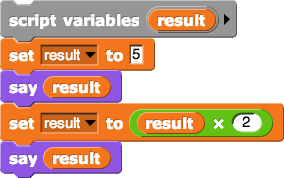
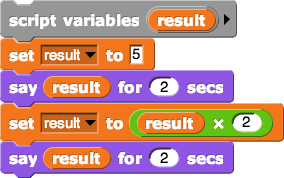
U2L2 many fixes

Changed region(s): [[0.3944, 0.7865, 0.8451, 0.9831], [0.3944, 0.3933, 0.8451, 0.5899]]

diff --git a/cur/programming/2-conditionals-abstraction-testing/2-script-variables/1-script-variables.html b/cur/programming/2-conditionals-abstraction-testing/2-script-variables/1-script-variables.html
@@ -51,42 +51,97 @@
                 	<strong>Analyzing and debugging:</strong> Instead of setting a script variable, this script just uses the <code>pick random</code> block in the two places that need the random number. Before you build and run this script, try to figure out what is likely to go wrong.
                     <p><img src="/bjc-r/img/prog/bad-random-poly.png" alt="buggy random polygon" /></p>
             	</li>
-                <li>This script shows a very useful thing that you can do with variables.
+      </ol>
+    </div>
+<h3>Important new idea:</h3> 
+<p> You will often find it useful to perform some operation on the <em>current</em> value of a variable and then set the variable's value to the result of that operation.  Here is one way that might look in <span class="snap">snap</span>. </p>
+<p> <img class="indent" src="/bjc-r/img/2-conditionals-abstraction-testing/set-result-to-(operation-on-result).png" alt="set-result-to-(operation-on-result)"> </p>
+<p>The operation might be <code></code> or <img src="/bjc-r/img/blocks/join()().png" alt="join"> or  <img src="/bjc-r/img/blocks/times.png"  alt="times"> or many others.</p>
+        <div class="forYouToDo">
+	        <ol start="5">
+        
+                <li>Here is one example.
                   <p><img class="indent" src="/bjc-r/img/2-conditionals-abstraction-testing/example-set-result-to-5-say-result-set-result-to-result-x-2-say-result.png" alt="example-set-result-to-5-say-result-set-result-to-result-x-2-say-result"></p>
                     <ol> 
-                        <li> Build it, try it, and figure out <em>why</em> it does what it does. </li>
-                        <li>Change the 5 to a 7 and <em>predict</em> what it will do.</li>
+                        <li> Build it, try it, and figure out why <img src="/bjc-r/img/2-conditionals-abstraction-testing/say-(result)-for-2-secs.png"  alt="say-(result)-for-2-secs"> says one thing in step 3 and a different thing in step 5.</li>
+                        <li>Change the 5 to a 7 and <em>predict</em> what this script will do.</li>
                     </ol>
-                    <div class="takeNote">
-   					This step <img src="/bjc-r/img/2-conditionals-abstraction-testing/set-result-to-(operation-on-result).png" alt="set-result-to-(operation-on-result)"> performs some operation on the value that <code>result</code> already has and then sets <code>result</code> to the new value. You will probably use this idea very often in your programming.</div>
-         <li>Now create the much more useful script 
+                   
+         <li>This script does a  much more useful thing. 
                             <p><img src="/bjc-r/img/2-conditionals-abstraction-testing/power--set-result-to-1-repeat-2-(set-result-to-result-times-5)-say-result.png" alt="power--set-result-to-1-repeat-2-(set-result-to-result-times-5)-say-result"> </p> 
                     <ol> 
                         <li> Build it, try it, and figure out how it does what it does. </li>
                         <li> Change the <code> times 5</code> to <code> times 3</code> and <em>predict</em> what it will do.</li>
                         <li> Then change the <code> repeat 2</code> to <code> repeat 3</code>. 
-                        <li> Build a <strong>reporter</strong> block named <code> raise (base) to the power of (exponenent)</code>.
-                             <p>Use the script inside, and put the variables <code>(base)</code> and <code>(exponent)</code> in the right places.</p>
-                             <p>Check (as always!) to make sure it does what you expect.</p></li> 
+                        <li> Build a <strong>reporter</strong> block named <img src="/bjc-r/img/2-conditionals-abstraction-testing/raise-base-to-the-power-of-exponent.png" alt="raise-base-to-the-power-of-exponent">.
+                          <p>The script you created should help. Put the variables <code>(base)</code> and <code>(exponent)</code> in the right places inside that script.</p>
+                          <p>Your block should work like this:</p>
+                    <p><img src="/bjc-r/img/2-conditionals-abstraction-testing/raise(2)-to-the-power(3)(with-result).png" alt="raise 2 to the power 3 (result = 8)"><img src="/bjc-r/img/2-conditionals-abstraction-testing/raise(2)-to-the-power(5)(with-result).png" alt="raise 2 to the power 5 (result = 32)"><img src="/bjc-r/img/2-conditionals-abstraction-testing/raise(3)-to-the-power(4)(with-result).png" alt="raise 3 to the power 4 (result = 81)"><img src="/bjc-r/img/2-conditionals-abstraction-testing/raise(2)-to-the-power(1)(with-result).png" alt="raise 2 to the power 1 (result = 2)"></p>
+                    <p>Make sure it also works for this case: <img src="/bjc-r/img/2-conditionals-abstraction-testing/raise(5)-to-the-power(0)(with-result).png" alt="raise 5 to the power 0 (result = 1)"></p>
+                             <p>Check (as always!) to make sure it works as you expect.</p></li> 
                     </ol>
-                 </li>
+              </li>
+              <li>Here is another example.
+                  <p><img src="/bjc-r/img/2-conditionals-abstraction-testing/vowel-remover-script.png" alt="vowel-remover-script, first line: script variables (result)(somewords); second line: set result to (empty slot); third line: set somewords to (any sentence you like); fourth line: for i = 1 to length of (somewords) {if not vowel? letter i of somewords, set result to (join result letter i of somewords)}; fifth line: say result"></p>
+                  <ol> 
+                            <li> Build it, try it, and figure out <em>how</em> it does what it does. </li>
+                            <li> Change the code so that it puts in hyphens (-) where the vowels used to be.</li>
+                            <li> Change the code so that it <em>counts</em> the vowels, <em>counts</em> all the letters (not including spaces), and ends with 
+<p><img src="/bjc-r/img/2-conditionals-abstraction-testing/say-(vowels)-for-2-secs-say(total-letters)-for-2-secs-say((join-words-(this-passage-is)(vowels-divided-by-total-letters)-percent-vowels.png" alt="say-(vowels)-for-2-secs-say(total-letters)-for-2-secs-say((join-words-(this-passage-is)(vowels-divided-by-total-letters)-percent-vowels"></p>
+                            If you like, compare the results you get from similar length sentences in two different languages. You may get very interesting results.</li>
+                   </ol> 
+              </li>
                         
-        	</ol>
+       	  </ol>
 </div>
 		
         <div class="todo">You could replace the below with one of these: <div class="newProject"><span class="text">"U2L2-MathTools"</span><img src="/bjc-r/img/icons/new-project-called.png" alt="Start a New Project called U2L2-MathTools" title="Start a New Project called U2L2-MathTools" /> (sizing if only off because it's in a reviewer comment)</div> and use a <img src="/bjc-r/img/icons/save-mini.png" alt="Save your work" title="Save your work" /> at the end. (Or just use <img src="/bjc-r/img/icons/new-project-mini.png" alt="Create a new project" title="Create a new project" /> before "Open a new file.") --MF</div>
-        <p>Now you have a choice. Some of the problems below are about words,  some are about numbers, and some are about art. Choose any four  that interest you and do them. You don't have to do more than four.</p>
+        <p>Now you have a choice. Some of the problems below are about language or linguistics,  some are about mathematics, and some are about art. Choose any two  that interest you and do them. </p>
         
         <div class="forYouToDo">
             <ol start="8">
-                <div class="comment">Feedback from Dan during August PD: These problems (7-14) are too math-focused. --MF<br />from GH: based on today's conversation in NYC should #7-14 be (1) in a sub-page, (2) offered as a 'choose 3' of the following. /shawn</div>
-                <li>
-                    Here is one way to create a <code>factorial</code> block that takes a positive integer <em>n</em> and reports the value 1 &times; 2 &times; 3 &times; ... &times; (<em>n</em> - 1) &times; <em>n</em>. 
-                    <p><a name="factorial" class="anchor"></a><img src="/bjc-r/img/2-conditionals-abstraction-testing/factorial-block.png" alt="factorial block"></p>
+            
+                <li><strong>Mondrian—an art project:</strong> The artist Mondrian is possibly best known for his artwork using brightly colored rectangles
+                  <p><img src="/bjc-r/img/2-conditionals-abstraction-testing/Tableau-I-by-Piet-Mondriaan.png" width="300" alt="Tableau_I,_by_Piet_Mondriaan, from Wikimedia Commons"></p>
+                  <p>Mondrian wasn't at all random in his choice of colors and locations, but you can be. A <span class="snap">snap</span> script can produce some very interesting Mondrian-like effects. </p>
+                <p><img src="/bjc-r/img/2-conditionals-abstraction-testing/Snap-Piet-Mondrian.png" width="300"  alt="Mondrian-like art drawn with Snap"> <img src="/bjc-r/img/2-conditionals-abstraction-testing/Snap-Piet-Mondrian2.png" width="300"  alt="another Mondrian-like design drawn with Snap"></p>
+                The following algorithm will produce designs like these.
+<pre class="indent" style="width:450px;">Draw outer frame (400 x 300)
+Fill with color
+Repeat many times
+    Pick random location
+    Pick random height and width for a rectangle that, 
+        at that location, 
+        will not extend beyond frame
+    Fill rectangle with random color
+    Draw bold boundary in black</pre>
+    <p><span class="snap">snap</span> has no <code>fill with color</code> block.  One way to make such a block is 
+<pre class="indent" style="width:450px;">Repeat until height or width is less than 2
+	Draw rectangle of specified height and width
+	Set height slightly smaller
+	Set width slightly smaller</pre>
+    </p>
+    <p>
+    
+    To get bright colors, use <code>set pen shade to 100</code>, and you get a good collection of colors with 
+                <img src="/bjc-r/img/2-conditionals-abstraction-testing/set-pen-color-to(2-times-pick-random-0-to-50).png"  alt="set-pen-color-to(2-times-pick-random-0-to-50)">  </p></li>
+                <li> The code <code>set pen size 50, move 100 steps</code> does not do quite what you might expect, because the "ends of the lines" are rounded. The code <code>clear set pen size 50, move 0.5 steps</code> does  something that can be useful. Experiment with the possibilities. 
+                  <p> <img src="/bjc-r/img/2-conditionals-abstraction-testing/colored-circles.png" width="300" alt="colored circles randomly placed">  <img src="/bjc-r/img/2-conditionals-abstraction-testing/Colored-ovals.png" width="300" alt="colored ovals"></p> 
+                <div class="endnote">Another way to fill a rectangle is to draw a "very thick line" that has &quot;flat&quot; ends instead of round ends. The settings menu allows you to choose "flat line ends." 
+                  <p><img class="indent" src="/bjc-r/img/2-conditionals-abstraction-testing/Flat Line Ends.png"  alt="settings menu, flat line ends"></p>
+                </div>  
+                </li>
+                <li><strong>Writing secret code:</strong> Create a block that takes a word as input, changes each letter into the <em>next</em> letter in the alphabet—for example, A becomes B, Y becomes Z...—and reports the result, like this: <img src="/bjc-r/img/2-conditionals-abstraction-testing/encode-decode(HANDY)-with-result(IBOEZ).png" alt="encode-decode(HANDY)-with-result(IBOEZ)">.
+                <p>In order to do this, you will need to be able to change a letter into a number, add 1 to that number, and then change the new number back to a letter. The blocks <img src="/bjc-r/img/2-conditionals-abstraction-testing/unicode-of(Y).png" alt="unicode-of(Y)">                and <img src="/bjc-r/img/2-conditionals-abstraction-testing/unicode(89)as-letter.png"  alt="unicode(89)as-letter"> will help you do that. Experiment with them to see how they work.</p>
+                <ol><li>This block encodes by adding 1 to the unicode for each letter. You could, instead, always add 2 or 5 or whatever. Give your block a second variable that allows you to specify what to add to the unicode.</li>
+                <li>When you give your <code>encode</code> block the input <code>z</code>, what does it report? If that's not what you would <em>like</em> it to report, change it. </li>
+                <li>Make a <code>decode</code> block.</li></ol>
+                </li>
+                <li><strong>Linguistic research:</strong> Build a block that can take a piece of text as input and which letter,  <strong>t</strong> or <strong>s</strong>, is used more often in that bit of text. Later, you will be able to generalize this and take a large block of text and figure out the frequency of each letter. <em>Letter frequency differs from language to language. That information has been used as one clue in decoding encrypted messages.</em></li>
+    
+                <li><strong>A mathematical function: </strong>Create <a name="factorial" class="anchor"></a> a <code>factorial</code> block <img src="/bjc-r/img/2-conditionals-abstraction-testing/n-factorial.png" alt="n factorial"> (or <img src="/bjc-r/img/2-conditionals-abstraction-testing/n-factorial-symbol.png"  alt="n!">) that takes a positive integer <em>n</em> and reports the product of all whole numbers from 1 through <em>n</em>, in other words 1 &times; 2 &times; 3 &times; ... &times; (<em>n</em> - 1) &times; <em>n</em>. When the  input is 4, the output should be 24 (because 1 × 2 × 3 × 4 = 24). 
                     <ol>
-                        <li>Build this block and test it out. When the block's input is 4, its output should be 24 (because 1 &times; 2 &times; 3 &times; 4 = 24). And when the input is 5, you should see. <img src="/bjc-r/img/2-conditionals-abstraction-testing/5-factorial-with-result(120).png"  alt="five factorial with result (120)"></li>
-                        <li>Dividing 5! by 4!, the result should be 5 <img src="/bjc-r/img/2-conditionals-abstraction-testing/5-factorial-divided-by-4-factorial-with-result(5).png" alt="5-factorial-divided-by-4-factorial-with-result(5)"> because 4! is  1 &times; 2 &times; 3 &times; 4, and 5! is  1 &times; 2 &times; 3 &times; 4 &times;5. Using your block, check each of these computations&mdash;<img src="/bjc-r/img/2-conditionals-abstraction-testing/4-factorial-divided-by-3-factorial.png"  alt="4-factorial-divided-by-3-factorial">, <img src="/bjc-r/img/2-conditionals-abstraction-testing/3-factorial-divided-by-2-factorial.png"  alt="3-factorial-divided-by-2-factorial">, <img src="/bjc-r/img/2-conditionals-abstraction-testing/2-factorial-divided-by-1-factorial.png"  alt="2-factorial-divided-by-1-factorial"> and <img src="/bjc-r/img/2-conditionals-abstraction-testing/1-factorial-divided-by-0-factorial.png"  alt="1-factorial-divided-by-0-factorial">&mdash;to see what it reports. </li>
-                        <li>For mathematics to be consistent, we'd like all of these to follow the same pattern, but one of them does not. To fix the problem, we need to <em>define</em> 0! = 1. Edit your <code>n!</code> block to  report 1 if <em>n</em> = 0. Then fully test <code>n!</code> again to make sure it works as it should. </li>
+                        <li>Dividing 5! by 4!, the result should be 5 <img src="/bjc-r/img/2-conditionals-abstraction-testing/5-factorial-divided-by-4-factorial-with-result(5).png" alt="5-factorial-divided-by-4-factorial-with-result(5)"> because 5 factorial is really just 5 times 4 factorial. Using your block, check each of these computations&mdash;<img src="/bjc-r/img/2-conditionals-abstraction-testing/4-factorial-divided-by-3-factorial.png"  alt="4-factorial-divided-by-3-factorial">, <img src="/bjc-r/img/2-conditionals-abstraction-testing/3-factorial-divided-by-2-factorial.png"  alt="3-factorial-divided-by-2-factorial">, <img src="/bjc-r/img/2-conditionals-abstraction-testing/2-factorial-divided-by-1-factorial.png"  alt="2-factorial-divided-by-1-factorial"> and <img src="/bjc-r/img/2-conditionals-abstraction-testing/1-factorial-divided-by-0-factorial.png"  alt="1-factorial-divided-by-0-factorial">&mdash;to see what it reports. One of these is inconsistent with the others. To fix the problem, we need to <em>define</em> 0! = 1. Edit your <code>n!</code> block to  report 1 if <em>n</em> = 0. Then fully test <code>n!</code> again to make sure it works as it should. </li>
                         <li><strong>Debugging: </strong>Obviously <img src="/bjc-r/img/2-conditionals-abstraction-testing/cookie-factorial-bug.png" alt="cookie-factorial-bug"> should not work! Check to see what does happen.  Then edit your block and find a way to use <img src="/bjc-r/img/2-conditionals-abstraction-testing/is-n-a-number.png" alt="is n a number"> to check that the input is a number and report some sensible result or message.</li>
                         <li> 
                             <strong>Analyzing code: </strong>In mathematics, factorial is defined only for positive integers and zero, so 3.7! would make no mathematical sense.  But <img src="/bjc-r/img/2-conditionals-abstraction-testing/three-point-seven-factorial.png" alt="three-point-seven-factorial"> reports a result!
@@ -94,31 +149,30 @@
                         </li>
                     </ol>
                 </li>
-                <li>Create a block <code>triangular number n</code> that takes <em>n</em> as input and reports 1 + 2 + 3 + ... + (<em>n</em> - 1) + <em>n</em>. <code> triangular number 4</code> should report 10.  Define your block so that <code> triangular number 0</code> reports 0. </li>
-                <li>
-                    Create a <code>raise (n) to the power (b)</code> block that works like this:
-                    <p><img src="/bjc-r/img/2-conditionals-abstraction-testing/raise(2)-to-the-power(3)(with-result).png" alt="raise 2 to the power 3 (result = 8)"><img src="/bjc-r/img/2-conditionals-abstraction-testing/raise(2)-to-the-power(5)(with-result).png" alt="raise 2 to the power 5 (result = 32)"><img src="/bjc-r/img/2-conditionals-abstraction-testing/raise(3)-to-the-power(4)(with-result).png" alt="raise 3 to the power 4 (result = 81)"><img src="/bjc-r/img/2-conditionals-abstraction-testing/raise(2)-to-the-power(1)(with-result).png" alt="raise 2 to the power 1 (result = 2)"></p>
-                    <p>Make sure it also works for this case: <img src="/bjc-r/img/2-conditionals-abstraction-testing/raise(5)-to-the-power(0)(with-result).png" alt="raise 5 to the power 0 (result = 1)"></p>
-                </li> 
-                <li>Create <img src="/bjc-r/img/2-conditionals-abstraction-testing/sum from a to b 170 × 27 pixels.png" alt="sum from a to b"> so that <img src="/bjc-r/img/2-conditionals-abstraction-testing/sum from 3 to 7 170 × 27 pixels.png" alt="sum from 3 to 7"> reports the sum 3 + 4 + 5 + 6 + 7, and <img src="/bjc-r/img/2-conditionals-abstraction-testing/sum from -3 to 3.png" alt="sum from -3 to 3"> reports the sum of -3 + -2 + -1 + 0 + 1 + 2 + 3.</li>
-                <li> <div class="sidenote">Recall that <code>n mod i</code> will tell you if <em>i</em> is a divisor of <em>n</em>.</div> Create a block that takes a whole number as input and checks  numbers from 1 through that input and counts the ones that evenly divide the input. So, for example, <img src="/bjc-r/img/2-conditionals-abstraction-testing/number-of-divisors-of-8-with-result(4).png" alt="number of divisors of 8, with result = 4"> because, from 1 through 8, only the numbers 1, 2, 4, and 8 evenly divide 8.  <code>number-of-divisors 10</code> should also report 4 because, of the numbers from 1 through 10, only 1, 2, 5, and 10 are divisors of 10.</li>
-                <li>Create a tool <code>digital sum</code> that adds up the digits in a number.  So, for example <code>digital sum 7</code> should report 7, and <code>digital sum 12</code> should report 3, and <code>digital sum 126</code> should report 9 (the sum of 1, 2 and 6).  You may find these blocks useful. <img src="/bjc-r/img/2-conditionals-abstraction-testing/letter-i-of-number.png" alt="fletter-i-of-number"> <img src="/bjc-r/img/2-conditionals-abstraction-testing/for-i=1-to-length-of-number.png" alt="for-i=1-to-length-of-number"> </li>
+                <li><strong>Another mathematical function:</strong> Create a block <code>triangular number n</code> that <em>adds</em> all of the whole numbers from 1 through <em>n</em>. 1 + 2 + 3 + ... + (<em>n</em> - 1) + <em>n</em>. When its input is 4, your block should report 10 (that is, 1 + 2 + 3 + 4).  Define your block so that <code> triangular number 0</code> reports 0. </li>
+                <ol> 
+                <li>Create <img src="/bjc-r/img/2-conditionals-abstraction-testing/sum from a to b 170 × 27 pixels.png" alt="sum from a to b"> so that <img src="/bjc-r/img/2-conditionals-abstraction-testing/sum from 3 to 7 170 × 27 pixels.png" alt="sum from 3 to 7"> reports the sum 3 + 4 + 5 + 6 + 7, and <img src="/bjc-r/img/2-conditionals-abstraction-testing/sum from -3 to 3.png" alt="sum from -3 to 3"> reports the sum of -3 + -2 + -1 + 0 + 1 + 2 + 3.</li></ol>
+                <li> <div class="sidenote">Recall that <code>n mod i</code> will tell you if <em>i</em> is a divisor of <em>n</em>.</div>
+                  <strong>Counting divisors: </strong>Create a block that takes a whole number as input and checks  numbers from 1 through that input and counts the ones that evenly divide the input. So, for example, <img src="/bjc-r/img/2-conditionals-abstraction-testing/number-of-divisors-of-8-with-result(4).png" alt="number of divisors of 8, with result = 4"> because, from 1 through 8, only the numbers 1, 2, 4, and 8 evenly divide 8.  <code>number-of-divisors 10</code> should also report 4 because, of the numbers from 1 through 10, only 1, 2, 5, and 10 are divisors of 10. <strong>Experiment</strong> to find several numbers that have an odd number of divisors.</li>
+                
                 
 			</ol>
-		</div>
+</div>
 
         <div class="commentBig">Hi Paul, I was in here working on the TIF Assignments for the TG, and I changed this lab title to make it fit. If it really has to be "Mathematical" on the end, change it and let me know; I'll widen the box. --MF</div>
         <div class="takeItFurther"><a name="further" class="anchor">&nbsp;</a>
             <ol type="A">
                 <li>Edit your <code>raise (n) to the power (b)</code> block to make it work for negative integer exponents. </li> 
-                <li>
+                <li><strong>Old-fashioned divisibility test—divisibility by 3 or 9: </strong>Create a tool <code>digital sum</code> that adds up the digits in a number.  So, for example <code>digital sum 7</code> should report 7, and <code>digital sum 12</code> should report 3, and <code>digital sum 126</code> should report 9 (the sum of 1, 2 and 6).  You may find these blocks useful. <img src="/bjc-r/img/2-conditionals-abstraction-testing/letter-i-of-number.png" alt="fletter-i-of-number"> <img src="/bjc-r/img/2-conditionals-abstraction-testing/for-i=1-to-length-of-number.png" alt="for-i=1-to-length-of-number"> </li>
+            
+                <li><strong>Old-fashioned divisibility test—divisibility by 7: </strong>
                     Create a <code>multiples of 7 algorithm</code> block that takes any whole number as input and then puts it through this process:
-                    <div class="sidenote">For this project,  <img src="/bjc-r/img/blocks/all-but-last-letter-of.png" alt="all but last letter of"> and <img src="/bjc-r/img/blocks/last-letter-of.png" alt="last letter of"> are useful. They are in <a class="run" href="http://snap.berkeley.edu/snapsource/snap.html#open:http://snap.berkeley.edu/snapsource/libraries/word-sentence.xml">  the <strong>Words, sentences</strong> library</a>.</div>
+                    <div class="endnote">For this project,  <img src="/bjc-r/img/blocks/all-but-last-letter-of.png" alt="all but last letter of"> and <img src="/bjc-r/img/blocks/last-letter-of.png" alt="last letter of"> are useful. They are in <a class="run" href="http://snap.berkeley.edu/snapsource/snap.html#open:http://snap.berkeley.edu/snapsource/libraries/word-sentence.xml">  the <strong>Words, sentences</strong> library</a>.</div>
                     <p><img src="/bjc-r/img/2-conditionals-abstraction-testing/divisibility-by-7-algorithm.png" alt="multiples of 7 algorithm"> </p>
-                    <div class="sidenote">In <span class="snap">snap</span>, as in most programming languages, you can test for divisibility just by using <code>mod</code>, but before computers were widespread, algorithms like these greatly simplified some computations.</div>
+                    
                     <p>Test it first on several multiples of 7 (small and large) and make sure that, for multiples of 7, it reports only the results 14, 7, 0, -7, and -14. Also test it on several numbers that are <em>not</em> multiples of 7; for those numbers, it should never report 14, 7, 0, -7, or -14. <img src="/bjc-r/img/2-conditionals-abstraction-testing/multiples-of-7-algorithm-block-with-501298-as-input(and-result-neg14).png" alt="multiples-of-7-algorithm-block-with-501298-as-input(and-result-neg14)"></p>
                 </li>  
-				<li>Look up a test for divisibility by 11 or 13 and see if you can build a block that performs that algorithm.</li>
+				<li>Look up a test for divisibility by 11 or 13 and see if you can build a block that performs that algorithm.</li><div class="endnote">In <span class="snap">snap</span>, as in most programming languages, you can test for divisibility just by using <code>mod</code>, but before computers were widespread, algorithms like these greatly simplified some computations.</div>
                 <div class="saveAs"><span class="text">"U2L2-MathTools"</span><img src="/bjc-r/img/icons/save-this-as.png" alt="save your work as U2L2-MathTools" title="save your work as U2L2-MathTools" /></div>
             </ol>
         </div>

diff --git a/cur/programming/2-conditionals-abstraction-testing/2-script-variables/2-predicates.html b/cur/programming/2-conditionals-abstraction-testing/2-script-variables/2-predicates.html
@@ -18,16 +18,18 @@
         </div>
         <h2>Building a useful collection of predicates</h2>
         <p>Some tests—for example, a test to see if a number is even or if a letter is a vowel—are needed so often that you won't want to re-create them each time you need them. In this activity, you will create a set of tools that you may use often, especially for complicated programming tasks.  </p>
-		<p>
-            You've already built a predicate <code>vowel?</code> to test for vowels. In the same lesson, you built a block that <em>says</em> whether a number is even or odd, but not a <em>predicate</em> that you could use inside <code>if</code> to choose different actions depending on whether a number is even or odd. <span class="snap">snap</span> has a built-in test to see if something is a number, but not a test to see if the number is an integer, and often you will want that.</p>
+		<p><div class="comment">PG: Too tired. I can't remember which of these things have already been done!</div>
+        You've already built a predicate <code>vowel?</code> to test for vowels and a predicate to test for even numbers.  <span class="snap">snap</span> has a built-in test to see if something is a number, but not a test to see if the number is an integer, and often you will want that.</p>
     	<div class="forYouToDo" id="first">
             <ol>
-                <li>Create the predicate <img src="/bjc-r/img/2-conditionals-abstraction-testing/predicate-even-number.png" alt="predicate to test if a number is even"> to report <code>true</code> when its input it even and <code>false</code> otherwise.</li>
                 <li>
                     <span class="snap">snap</span> has a "greater than" operator (<code>&gt;</code>), an "equal" operator (<code>=</code>), and a "less than" operator (<code>&lt;</code>) built in, but doesn't have a "greater than or equal to" (<code>&gt;=</code>) operator. 
                     <p>
                         <img src="/bjc-r/img/prog/5ge3.png" alt="5 &gt;= 3"><img src="/bjc-r/img/prog/5ge5.png" alt="5 &gt;= 5"><img src="/bjc-r/img/prog/3ge5.png" alt="3 &gt;= 5"> 
-                        <div class="sidenote"> 
+                        
+                    </p>
+                    <p>Build <img src="/bjc-r/img/2-conditionals-abstraction-testing/a-greater-than-or-equal-to-b.png" alt="a greater than or equal to b"> and test it well to make sure it does what you expect.</p>
+                    <p><img src="/bjc-r/img/2-conditionals-abstraction-testing/creating-an-infix-predicate.gif" alt="creating an infix predicate"> </p><div class="endnote"> 
                             <ul>
                                 <li>When you type the block's title in the <strong>Make a block</strong> dialog, choose the hexagonal <em>predicate</em> block shape.</li>
                                 <li>To set the block's name <code>&gt;=</code>  between the two input slots, use the left plus sign in the Block Editor. <img src="/bjc-r/img/2-conditionals-abstraction-testing/left-plus-sign.png" alt="left plus sign"></li>
@@ -37,9 +39,6 @@
                                 </li>
                             </ul>
                         </div>
-                    </p>
-                    <p>Build <img src="/bjc-r/img/2-conditionals-abstraction-testing/a-greater-than-or-equal-to-b.png" alt="a greater than or equal to b"> and test it well to make sure it does what you expect.</p>
-                    <p><img src="/bjc-r/img/2-conditionals-abstraction-testing/creating-an-infix-predicate.gif" alt="creating an infix predicate"> </p>
                     <p>There are several correct ways to do this! As long as your block gives the right <code> true</code> and <code> false</code> answers, it's correct.</p>
                 </li>
                 <div class="takeNote">Operators like   <img src="/bjc-r/img/blocks/a-times-b.png"  alt="a times b"> that stand in between their two inputs are called <em><u>in</u>fix</em> operators. Operators like <img src="/bjc-r/img/2-conditionals-abstraction-testing/sqrt of 120 × 28 pixels.png" alt="sqrt of"> that stand before their inputs are called <em><u>pre</u>fix</em> operators. When we write <em>n</em>! to mean &quot;<em>n</em> factorial,&quot; the &quot;!&quot; is a <em><u>post</u>fix</em> operator&mdash;it comes after its input <img src="/bjc-r/img/2-conditionals-abstraction-testing/postfix factorial 47&nbsp;&times;&nbsp;27 pixels.png" alt="n factorial"> In <span class="snap">snap</span>, it is possible to mix the types, as you will do in the next problem.</div> 
